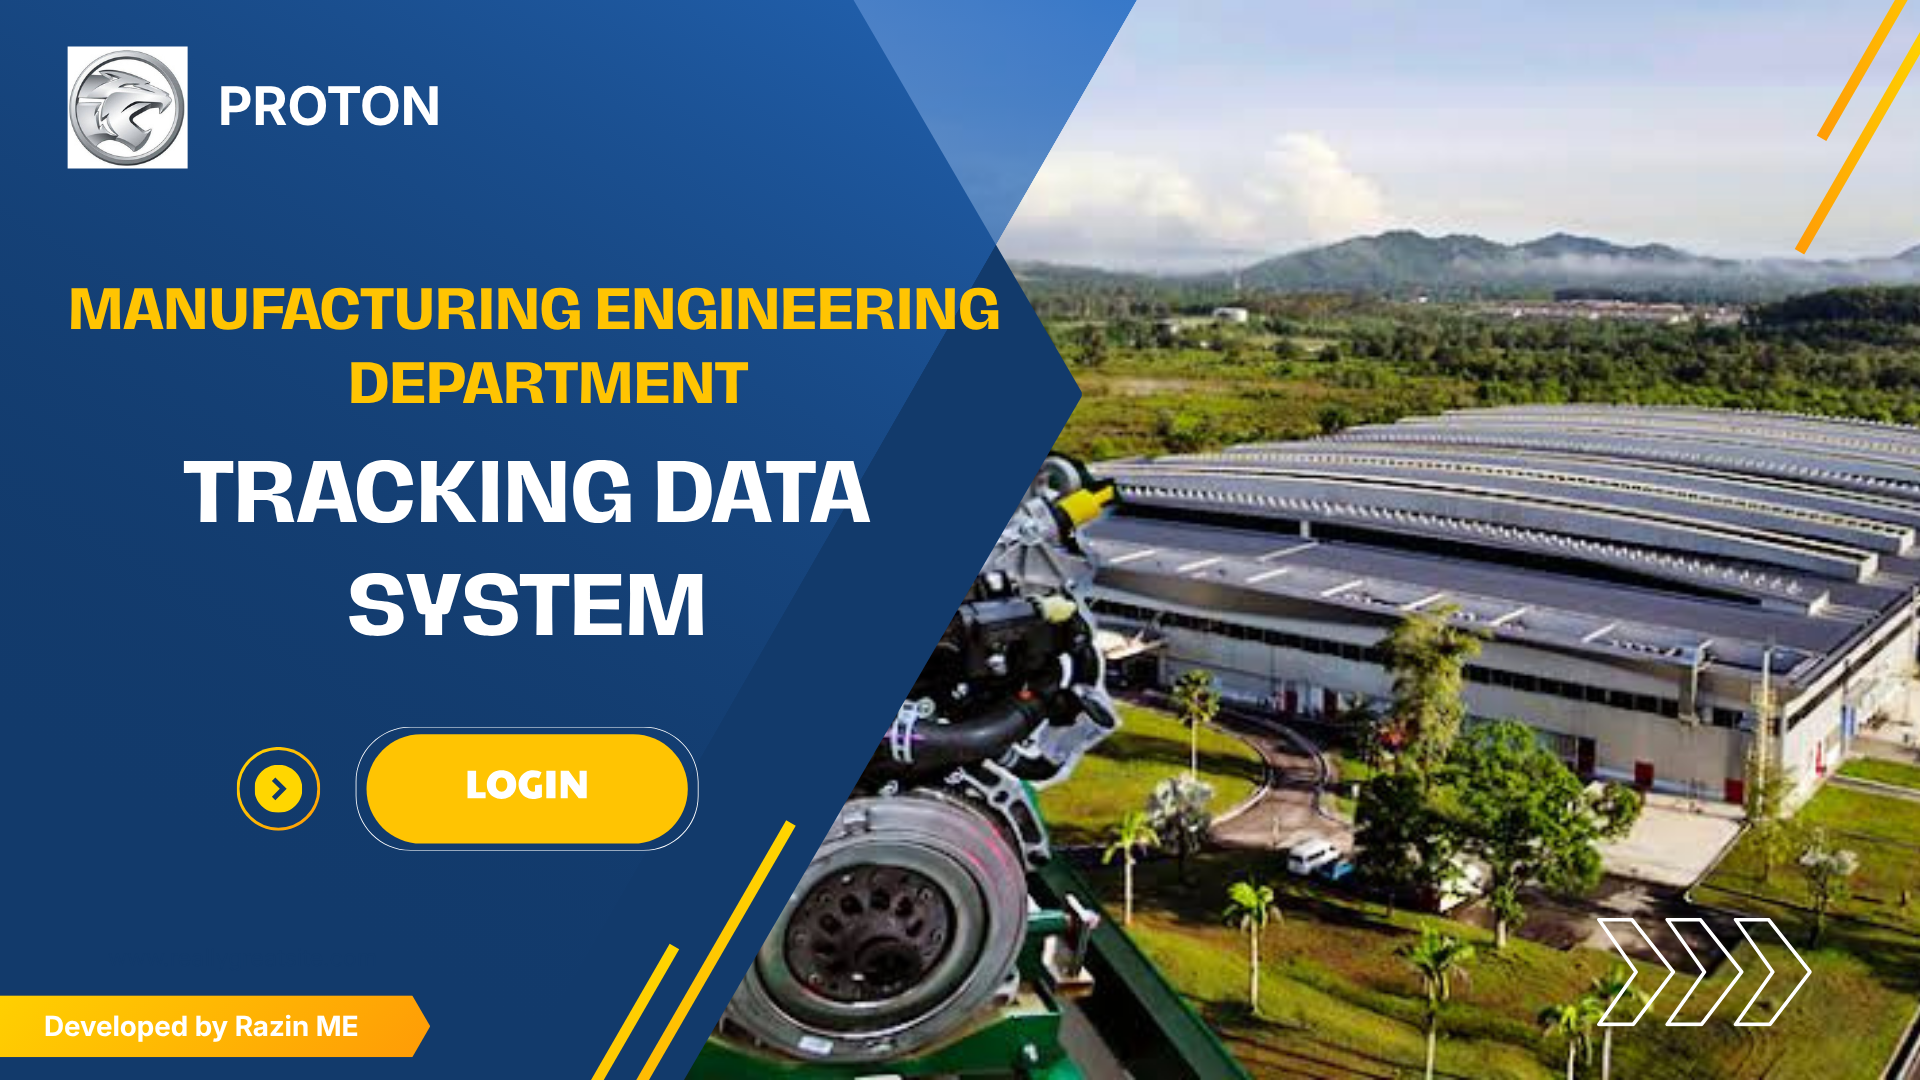
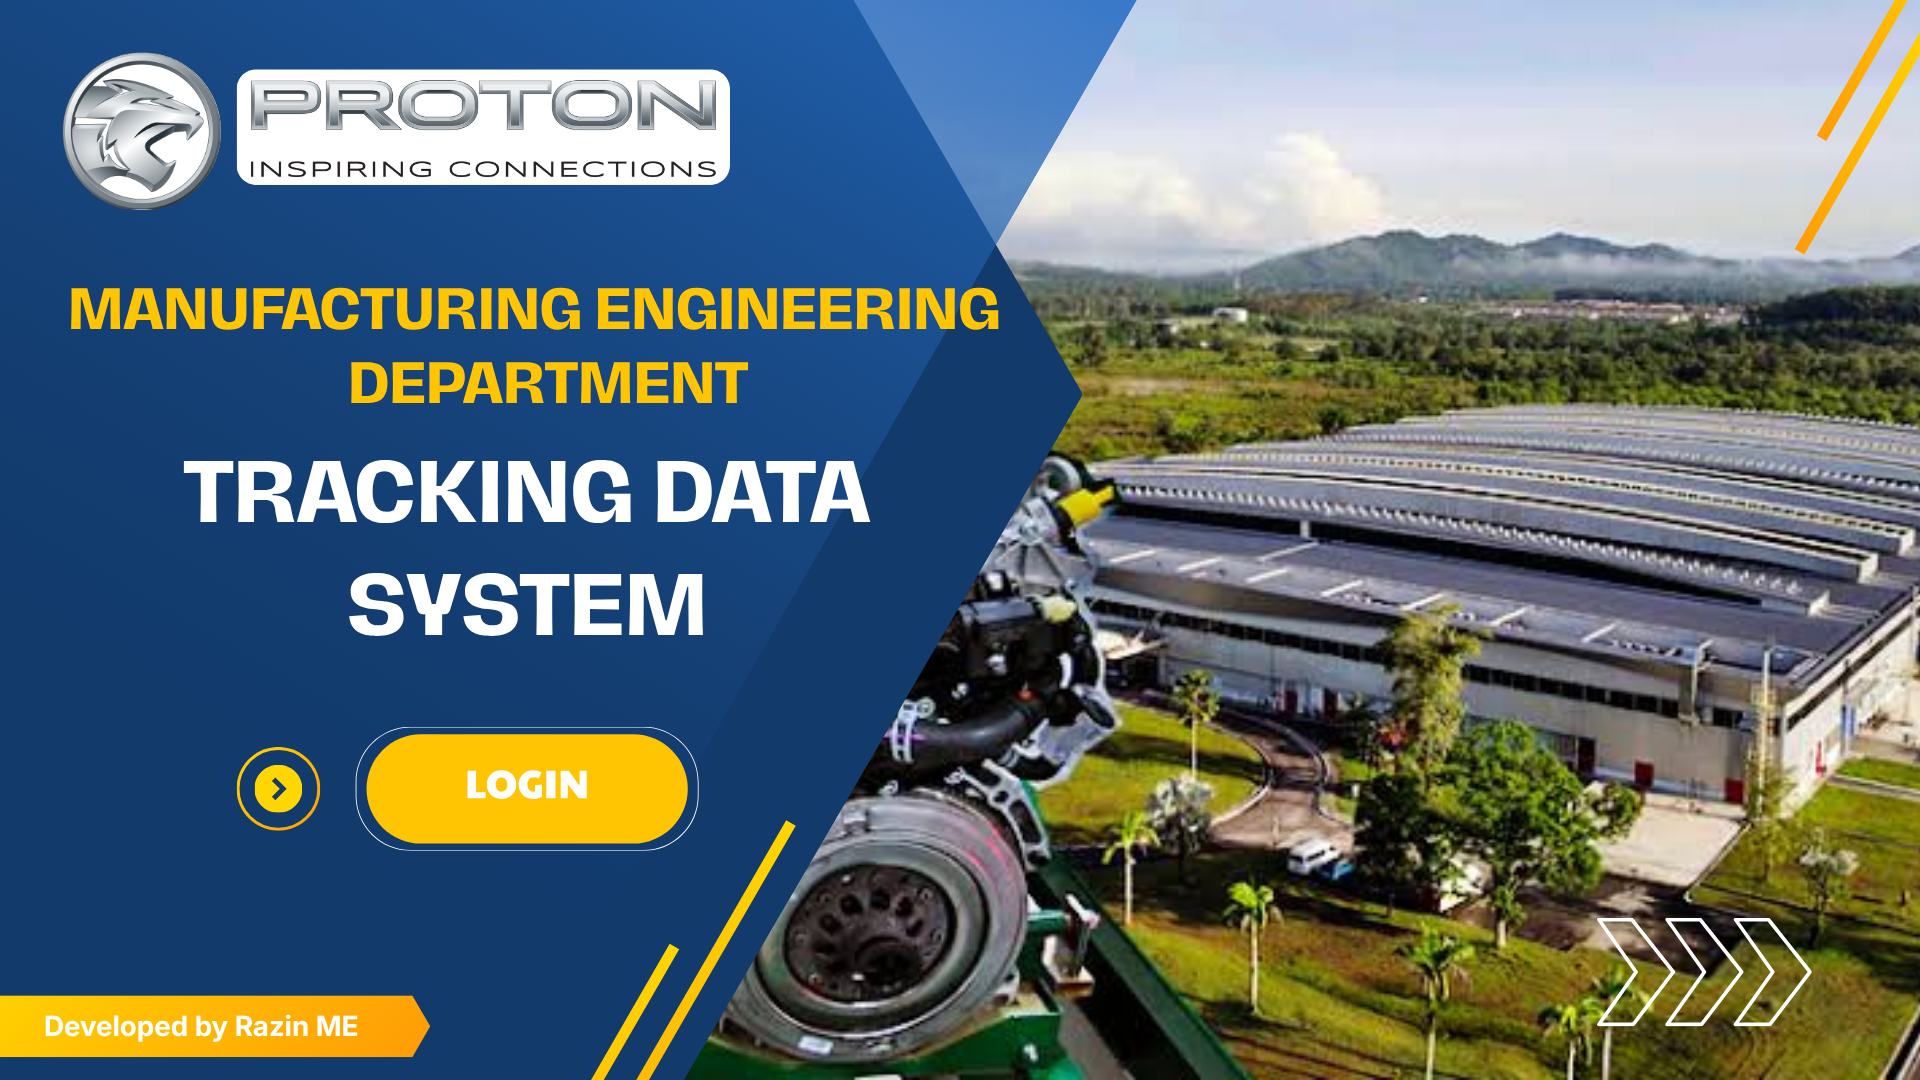
change homepage

Changed region(s): [[0.0312, 0.0306, 0.4062, 0.2139]]

diff --git a/src/components/LandingPage.css b/src/components/LandingPage.css
@@ -4,7 +4,7 @@
   box-sizing: border-box;
 }
 
-/* Container Utama */
+/* Container Utama Latar Belakang (Laptop / Desktop) */
 .embed-landing-container {
   position: relative;
   width: 100vw;
@@ -12,54 +12,54 @@
   display: flex;
   justify-content: center;
   align-items: center;
-  background-color: #113c70; /* Warna biru gelap sepadan dengan poster */
+  background-color: #113c70;
+  background-image: url('../Homepage.jpg');
+  background-size: cover;
+  background-position: center;
+  background-repeat: no-repeat;
   overflow: hidden;
 }
 
-/* Gambar Poster Untuk Paparan Laptop / PC */
-.poster-image {
-  width: 100%;
-  height: 100%;
-  object-fit: fill; /* Memenuhi skrin di PC/Laptop */
-}
-
-/* Butang Lutsinar (Invisible Button) Untuk PC/Laptop */
+/* Butang Lutsinar (Invisible Button) Untuk PC / Laptop */
 .invisible-login-btn {
   position: absolute;
   top: 66%; 
   left: 18%; 
   width: 18%;
   height: 10%;
-  background: rgba(255, 255, 255, 0); /* Lutsinar sepenuhnya */
+  background: rgba(255, 255, 255, 0);
   border: none;
   border-radius: 50px;
   cursor: pointer;
   color: transparent;
   transition: background 0.2s, transform 0.1s;
+  z-index: 10;
 }
 
 .invisible-login-btn:hover {
-  background: rgba(255, 255, 255, 0.15); /* Kesan kilauan bila tetikus lalu */
+  background: rgba(255, 255, 255, 0.15);
   transform: scale(1.02);
 }
 
-/* --- Penyelarasan Khas Untuk Skrin Telefon Bimbit (Mobile Auto-Fit) --- */
+/* --- Penyelarasan Khas Untuk Skrin Telefon Pintar (Mobile View) --- */
 @media (max-width: 768px) {
   .embed-landing-container {
-    background-color: #113c70; /* Sama warna latar dengan poster */
-  }
-
-  .poster-image {
-    width: 100%;
-    height: auto;
-    object-fit: contain; /* Kekalkan nisbah asal poster tanpa terpotong atau zoom */
+    background-image: url('../HomepageMobile.png');
+    background-size: cover;
+    background-position: center;
   }
 
   /* Selaraskan kedudukan butang LOGIN di skrin telefon */
   .invisible-login-btn {
-    top: 55%;
-    left: 17%;
-    width: 32%;
-    height: 6%;
+    top: 60%;                     /* Laraskan % ketinggian mengikut rekaan mobile anda */
+    left: 50%;
+    transform: translateX(-50%);  /* Letak tepat di tengah skrin */
+    width: 55%;                   /* Lebar butang login di mobile */
+    height: 7%;                   /* Ketinggian butang login di mobile */
+    border-radius: 40px;
+  }
+
+  .invisible-login-btn:hover {
+    transform: translateX(-50%) scale(1.02);
   }
 }

diff --git a/src/components/LandingPage.jsx b/src/components/LandingPage.jsx
@@ -4,18 +4,12 @@ import './LandingPage.css';
 export default function LandingPage({ onGoToLogin }) {
   return (
     <div className="embed-landing-container">
-      {/* Poster Rekaan */}
-      <img 
-        src="/Homepage.png" 
-        alt="Proton ME Data Tracking System" 
-        className="poster-image" 
-      />
-
       {/* Butang Lutsinar bertindih di atas butang LOGIN poster */}
       <button 
         className="invisible-login-btn" 
         onClick={onGoToLogin}
         title="Click to Log In"
+        aria-label="Log In"
       >
         LOGIN
       </button>
